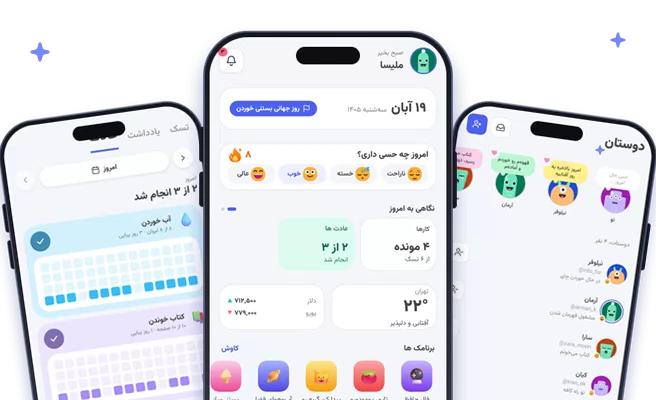
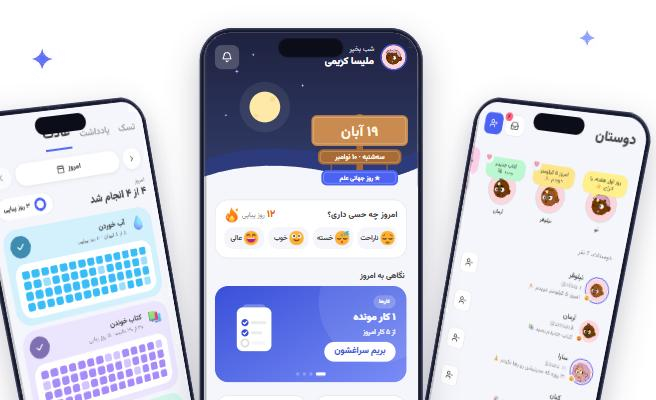
feat(currency-history): implement free history range for non-VIP users

diff --git a/src/features/widgets/wigi-arz/components/currency-modal.tsx b/src/features/widgets/wigi-arz/components/currency-modal.tsx
@@ -6,7 +6,10 @@ import { Modal, TextInput } from '@/components/ui'
 import { useAuth } from '@/context/auth.context'
 import { Icon } from '@/icons'
 import type { FetchedCurrency } from '@/services/currency/get-currency-by-code.hook'
-import type { CurrencyHistoryRange } from '@/services/currency/get-currency-history.hook'
+import {
+	type CurrencyHistoryRange,
+	FREE_HISTORY_RANGE,
+} from '@/services/currency/get-currency-history.hook'
 import { getPrice } from '../utils/get-price'
 import {
 	CurrencyHistory,
@@ -34,7 +37,8 @@ export const CurrencyModalComponent = ({
 	toggleCurrencyModal,
 }: CurrencyModalComponentProps) => {
 	const { isVip } = useAuth()
-	const [range, setRange] = useState<CurrencyHistoryRange>(DEFAULT_HISTORY_RANGE)
+	const [pickedRange, setRange] = useState<CurrencyHistoryRange | null>(null)
+	const range = pickedRange ?? (isVip ? DEFAULT_HISTORY_RANGE : FREE_HISTORY_RANGE)
 	const [isSwapped, setIsSwapped] = useState(false)
 	const [currencyAmount, setCurrencyAmount] = useState<number>(1)
 	const [tomanAmount, setTomanAmount] = useState<number>(0)
@@ -120,7 +124,7 @@ export const CurrencyModalComponent = ({
 								{currency.period && <span>{currency.period}</span>}
 							</p>
 						</div>
-						{isVip && <HistoryRangeTabs range={range} onChange={setRange} />}
+						<HistoryRangeTabs range={range} onChange={setRange} />
 					</header>
 
 					<div className="flex items-baseline gap-2">

diff --git a/src/features/widgets/wigi-arz/components/currency-history.tsx b/src/features/widgets/wigi-arz/components/currency-history.tsx
@@ -7,6 +7,7 @@ import { useAuth } from '@/context/auth.context'
 import type { FetchedCurrency } from '@/services/currency/get-currency-by-code.hook'
 import {
 	CURRENCY_HISTORY_RANGES,
+	FREE_HISTORY_RANGE,
 	type CurrencyHistoryRange,
 	isHistoryLocked,
 	useGetCurrencyHistory,
@@ -59,10 +60,11 @@ export function CurrencyHistory({
 	onLeave,
 }: CurrencyHistoryProps) {
 	const { isAuthenticated, isVip } = useAuth()
+	const isRangeLocked = !isVip && range !== FREE_HISTORY_RANGE
 	const { data, error, isPending, isError, refetch } = useGetCurrencyHistory(
 		code,
 		range,
-		enabled && isVip
+		enabled && !isRangeLocked
 	)
 	const isDollar = getPrice(code, currency).isDollar
 	const chart = useMemo(
@@ -70,7 +72,7 @@ export function CurrencyHistory({
 		[data, isDollar]
 	)
 
-	if (!isVip || isHistoryLocked(error)) {
+	if (isRangeLocked || isHistoryLocked(error)) {
 		const openAccount = () => {
 			onLeave()
 			if (isAuthenticated) callEvent('openSettings', 'vip')

diff --git a/src/common/i18n/fa/widgets.ts b/src/common/i18n/fa/widgets.ts
@@ -793,9 +793,9 @@ export const widgets = {
 	'widgets.wigiArz.chart.aria': 'نمودار قیمت {name}',
 	'widgets.wigiArz.chart.empty': 'هنوز دادهی کافی برای نمودار جمع نشده',
 	'widgets.wigiArz.chart.loadError': 'نمودار رو نتونستیم بیاریم',
-	'widgets.wigiArz.chart.proTitle': 'نمودار قیمت واسه کاربران پرو هست',
+	'widgets.wigiArz.chart.proTitle': 'نمودار هفته و ماه واسه کاربران پرو هست',
 	'widgets.wigiArz.chart.proDescription':
-		'با اشتراک پرو تاریخچهی قیمت رو روی نمودار ببین',
+		'با اشتراک پرو تاریخچهی هفتگی و ماهانهی قیمت رو ببین',
 	'widgets.wigiArz.chart.proAction': 'دیدن اشتراک پرو',
 	'widgets.wigiArz.chart.loginAction': 'ورود به حساب',
 	'widgets.wigiArz.chart.now': 'الان',

diff --git a/src/services/currency/get-currency-history.hook.ts b/src/services/currency/get-currency-history.hook.ts
@@ -9,6 +9,8 @@ export const CURRENCY_HISTORY_RANGES = ['24h', '7d', '30d'] as const
 
 export type CurrencyHistoryRange = (typeof CURRENCY_HISTORY_RANGES)[number]
 
+export const FREE_HISTORY_RANGE: CurrencyHistoryRange = '24h'
+
 const LOCKED_STATUSES = [401, 403]
 
 export function isHistoryLocked(error: unknown): boolean {

diff --git a/src/features/widgets/wigi-arz/README.md b/src/features/widgets/wigi-arz/README.md
@@ -42,7 +42,7 @@ The server adds entries of `type: 'service'` to `/currencies/supported-list` for
 
 ## History chart
 
-- Pro only. The server answers `?history=` only for a signed-in VIP (401 without a token, 403 `VIP_REQUIRED`). The modal asks `useAuth().isVip` first and, for anyone else, shows a locked card instead of the chart: «ورود به حساب» (opens the profile) when signed out, «دیدن اشتراک پرو» (opens the VIP settings) otherwise; the button also closes the modal. It draws the same card when the server still answers 401 or 403 (`isHistoryLocked`), so a VIP that ended since the profile was cached does not see a broken chart. The query does not run for a non-VIP.
+- The day range (`24h`, `FREE_HISTORY_RANGE`) is free for everyone, signed out too; the server skips auth for it. Week and month are Pro only (401 without a token, 403 `VIP_REQUIRED`). `HistoryRangeTabs` shows for everyone and starts on the day for a non-VIP, on the week for a VIP. A non-VIP who picks week or month sees a locked card instead of the chart: «ورود به حساب» (opens the profile) when signed out, «دیدن اشتراک پرو» (opens the VIP settings) otherwise; the button also closes the modal. The card also shows when the server still answers 401 or 403 (`isHistoryLocked`), so a VIP that ended since the profile was cached does not see a broken chart. The query does not run for a locked range.
 - Data: `useGetCurrencyHistory` in `src/services/currency` asks `/currencies/<code>?history=24h|7d|30d` and keeps `priceHistory`. The API sends `[]` without `history`, so the list rows never ask for it. The service worker caches each range apart (the key is the full URL).
 - Units: history `price` is in the same unit as the API's `price`: rial for currencies and coins, dollars for crypto. The chart shows what the modal shows, so `toDisplayValue` divides rial by 10 and leaves dollars (`getPrice(...).isDollar` decides).
 - Colour: follows the colour mode, like `PriceChange`; a range that rounds to 0.0 is neutral.
